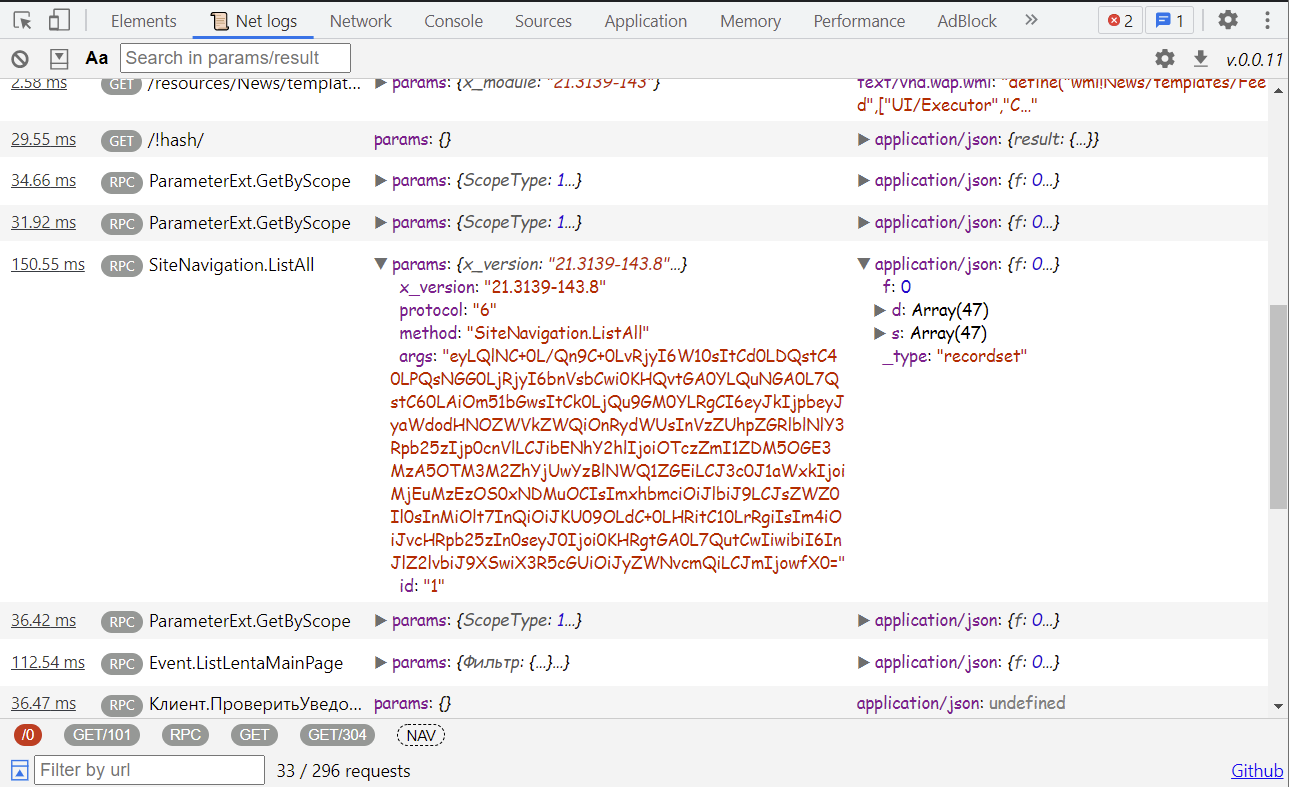
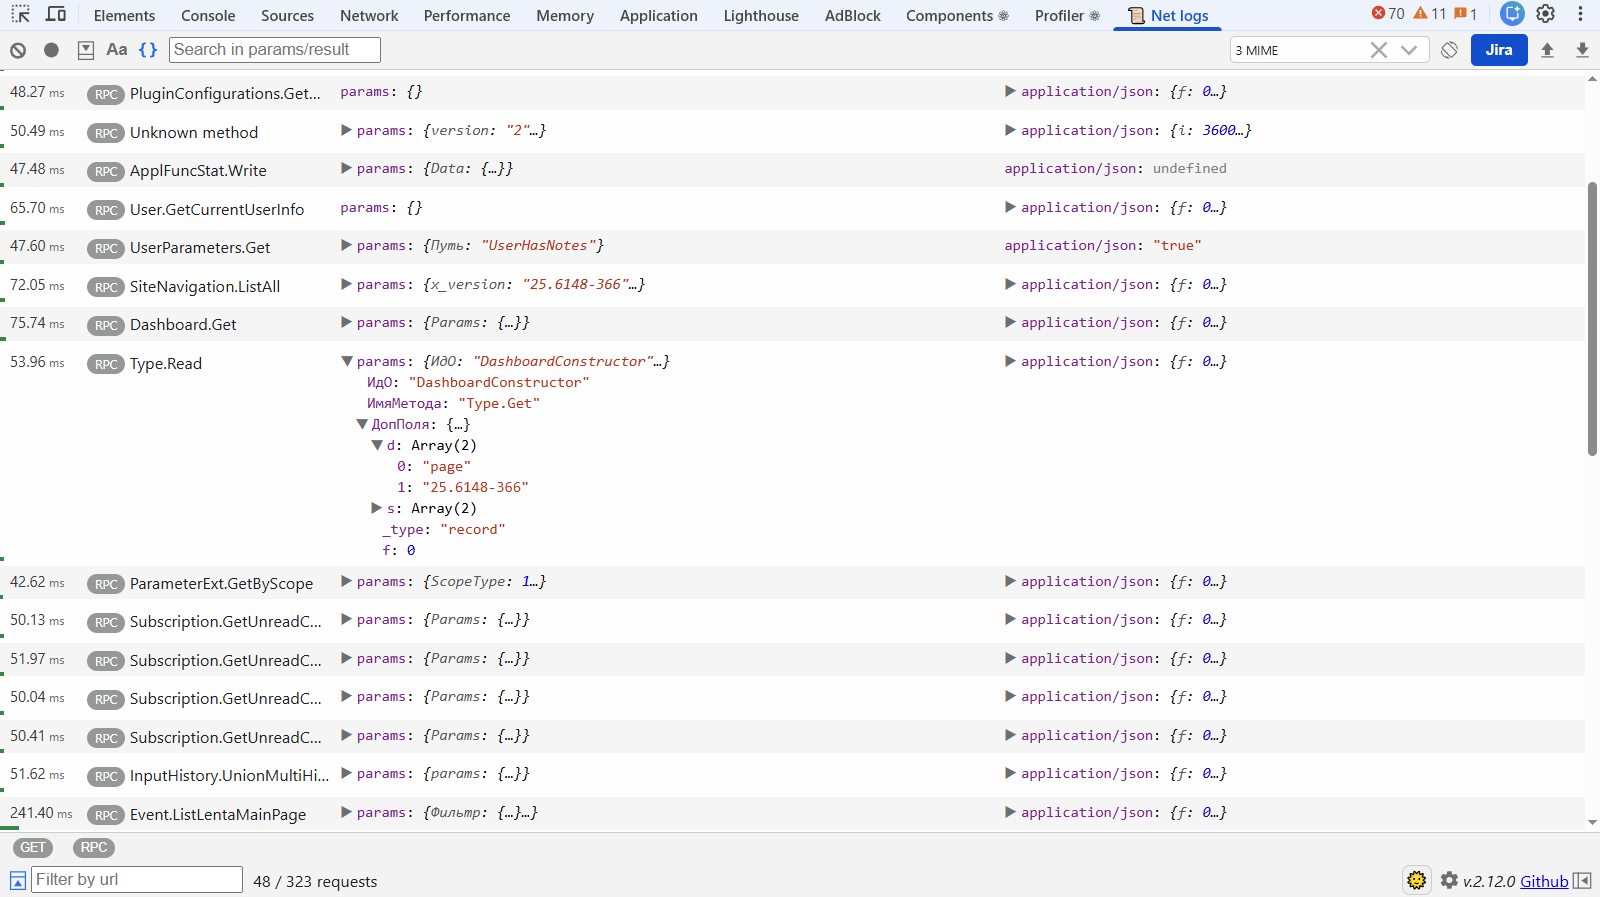
2.12.0
# Fixes
* Object keys were not searchable

# Chores
* Update some screenshots

Changed region(s): [[0.0, 0.0, 0.8379, 1.0], [0.6206, 0.0, 1.0, 1.0]]

diff --git a/src/api/runtime.ts b/src/api/runtime.ts
@@ -5,7 +5,7 @@ class SandboxRuntime {
         return {
             manifest_version: 3,
             name: 'Net logs',
-            version: '2.11.0'
+            version: '2.12.0'
         };
     }
 
@@ -21,7 +21,7 @@ class LocalRuntime {
         return {
             manifest_version: 2,
             name: 'Net logs',
-            version: '2.11.0'
+            version: '2.12.0'
         };
     }
 
